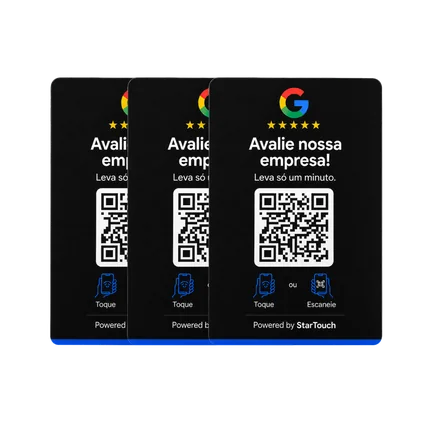
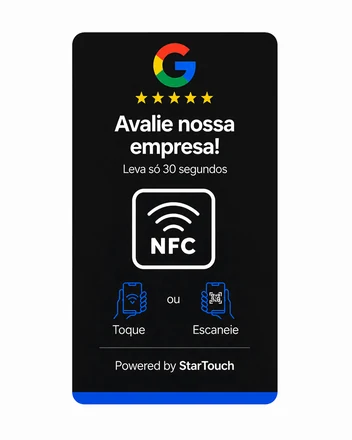
fix(revenda): a tabela de precos mostrava 3 cartoes por R$ 13,90 e a mesma foto pra duas placas
O Ricardo viu que a linha do cartao usava uma foto com TRES cartoes. Numa
tabela de preco POR UNIDADE, isso sugere que R\$ 13,90 leva tres — e a arte
dessa foto ainda dizia "Leva so um minuto", versao antiga do produto.

AO CONFERIR AS OUTRAS DUAS DA MESMA TABELA, achei coisa pior: rev-placa.webp
e rev-placa-m.webp eram BYTE A BYTE IDENTICAS. A Placa G (R\$ 32,90) e a
Placa M (R\$ 22,90) apareciam com a mesma imagem, uma embaixo da outra, na
tela onde a pessoa escolhe qual comprar.

E a TERCEIRA vez hoje que duas imagens diferentes eram o mesmo arquivo
(placa-m-1 = gadget-placa foi a primeira). Entao parei de conferir a dedo e
rodei md5 em TODAS as imagens de public/: 250 arquivos, nenhuma outra
duplicata. Dessa vez a lista veio do disco, nao da minha atencao.

As tres miniaturas foram regeradas das fontes canonicas — cartao-1.png,
gadget-placa.png e placa-m-2.png —, que tem md5 comprovadamente distintos.

De quebra, a pedido do Ricardo: o FAQ do frete para de falar em pedidos acima
de 30 kg. Diz so que o frete e calculado na hora da compra. A regra continua
valendo no sistema e avisando na tela no momento em que acontece — o que saiu
foi o anuncio antecipado de uma excecao que quase nenhum pedido alcanca.

Claude-Session: https://claude.ai/code/session_01S5eKpJUpAx1ZzX8rzRNBTg

diff --git a/public/revenda.html b/public/revenda.html
@@ -432,7 +432,7 @@
         <thead><tr><th>Produto</th><th>Varejo</th><th>Você paga</th></tr></thead>
         <tbody>
           <tr>
-            <td><div class="prodline"><img class="thumb" src="/rev-cartao.webp" width="440" height="440" loading="lazy" alt="Cartão de avaliação NFC StarTouch"/><div><div class="prod">Cartão de Avaliação NFC</div><div class="desc">Tamanho carteira, ideal para atendimento, equipe e balcão.</div></div></div></td>
+            <td><div class="prodline"><img class="thumb" src="/rev-cartao.webp" width="352" height="440" loading="lazy" alt="Cartão de Avaliação NFC StarTouch, unidade"/><div><div class="prod">Cartão de Avaliação NFC</div><div class="desc">Tamanho carteira, ideal para atendimento, equipe e balcão.</div></div></div></td>
             <td><span class="old">R$ 29,90</span></td>
             <td><span class="pay">R$ 13,90</span></td>
           </tr>
@@ -592,7 +592,7 @@
       <details><summary>Preciso pagar alguma coisa para revender?</summary><p>Não. Não há taxa de adesão, mensalidade nem exclusividade. Você compra os dispositivos e revende pelo preço que quiser.</p></details>
       <details><summary>O sistema é mesmo vitalício?</summary><p>Sim, e não é uma questão de confiança: é como o produto foi feito. O dispositivo aponta para um endereço nosso que <strong>redireciona igual para todo mundo, com plano ou sem plano</strong> — nunca houve verificação de pagamento nesse caminho, então não existe o que desligar por falta dele. Não é teste de 30 dias nem promoção de primeiro ano. Existe um plano pago opcional, o Menu Inteligente, que o cliente contrata só se quiser; se nunca contratar, o dispositivo e o painel continuam funcionando do mesmo jeito. <br/><br/>E não é só uma intenção nossa: está escrito no <a href="/termos" target="_blank" rel="noopener">item 5.2 dos Termos de uso</a>. <strong>O que já é seu continua seu</strong> — se algum recurso hoje gratuito passar para o plano pago um dia, a mudança vale só para dispositivos comprados depois dela. Quem já tem o seu não perde nada.</p></details>
       <details><summary>Quem dá suporte ao cliente final?</summary><p>A ativação é feita pelo próprio cliente e o suporte da plataforma é da StarTouch. Você cuida da venda; a plataforma cuida do resto.</p></details>
-      <details><summary>Como funciona o frete?</summary><p>É calculado na hora, pelo peso real do pedido e pelo CEP de entrega, com as transportadoras que atendem a sua região. Você escolhe o serviço e vê o valor somado ao total <strong>antes</strong> de pagar. Pedidos acima de 30 kg vão em mais de uma caixa e o frete desses é fechado na mão — a página avisa quando é o caso.</p></details>
+      <details><summary>Como funciona o frete?</summary><p>É calculado na hora da compra, pelo peso real do pedido e pelo CEP de entrega, com as transportadoras que atendem a sua região. Você escolhe o serviço e vê o valor somado ao total <strong>antes</strong> de pagar.</p></details>
       <details><summary>Qual o prazo total até eu receber?</summary><p>São até 10 dias úteis de produção, contados da confirmação do pagamento, mais o prazo da transportadora. O prazo que aparece junto de cada opção de frete <strong>já soma os dois</strong> — é o tempo até chegar na sua porta, não só o do transporte.</p></details>
     </div>
   </div>
